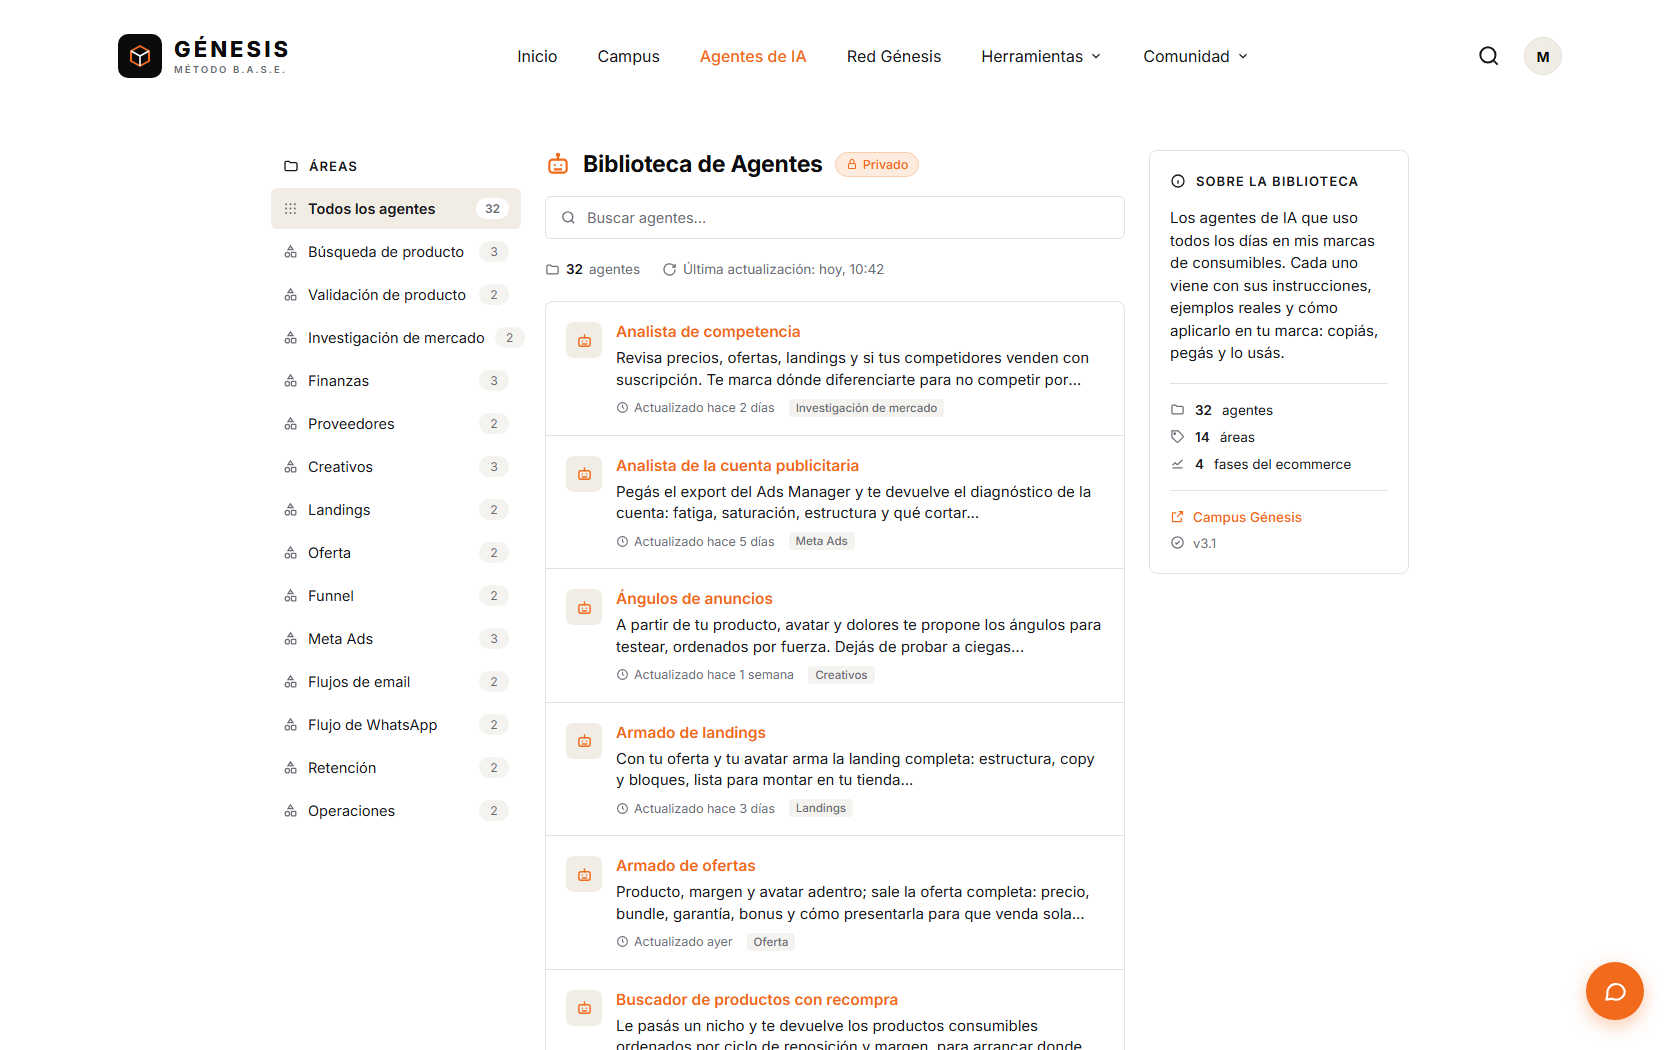
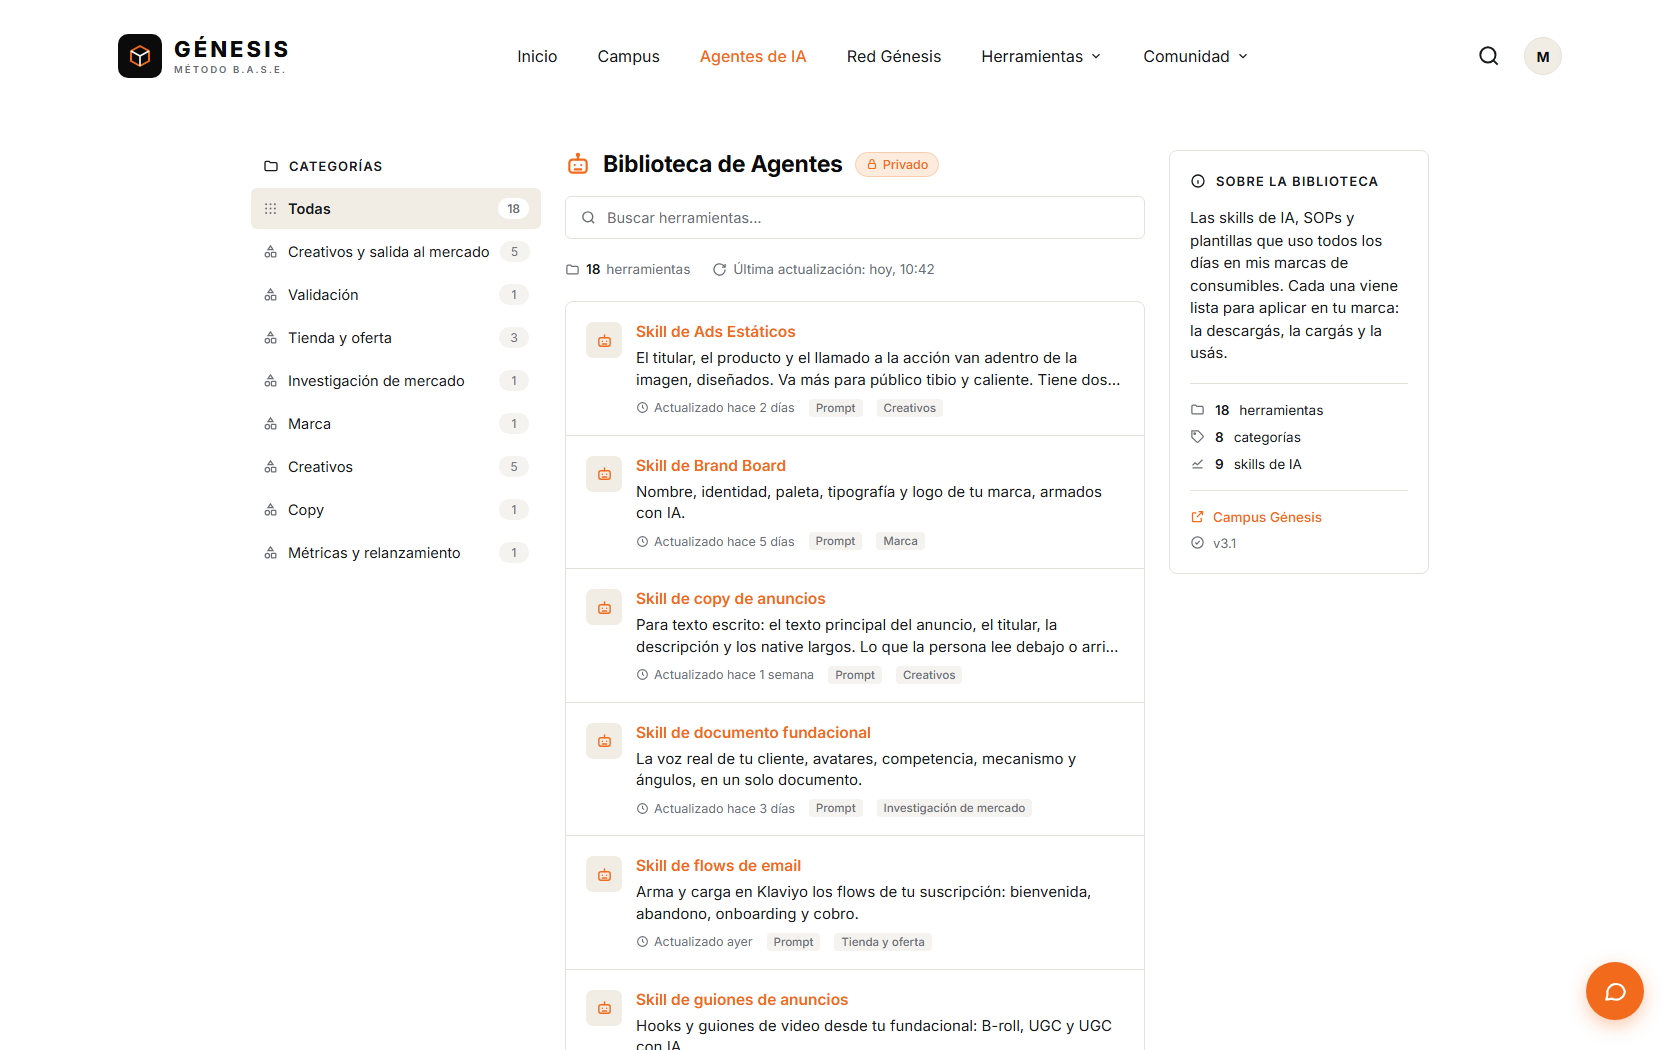
Biblioteca de agentes: las 18 herramientas reales del campus en lugar de los ejemplos

diff --git a/agentes/mi-negocio/webinar-17-11/biblioteca-agentes-ads.html b/agentes/mi-negocio/webinar-17-11/biblioteca-agentes-ads.html
@@ -36,7 +36,7 @@
   .avatar { width: 38px; height: 38px; border-radius: 50%; background: var(--hueso); border: 1px solid var(--borde); display: grid; place-items: center; font-weight: 700; font-size: 14px; color: var(--negro); }
 
   /* Layout */
-  main { display: grid; grid-template-columns: 250px 580px 260px; gap: 24px; justify-content: center; padding: 38px 0 80px; }
+  main { display: grid; grid-template-columns: 290px 580px 260px; gap: 24px; justify-content: center; padding: 38px 0 80px; }
 
   /* Sidebar */
   .side-titulo { display: flex; align-items: center; gap: 10px; font-size: 13px; font-weight: 600; letter-spacing: 0.08em; color: var(--tinta); padding: 8px 12px 14px; }
@@ -110,7 +110,7 @@
   <aside>
     <div class="side-titulo">
       <svg width="16" height="16" viewBox="0 0 24 24" fill="none" stroke="currentColor" stroke-width="2"><path d="M3 7a2 2 0 0 1 2-2h4l2 2h8a2 2 0 0 1 2 2v8a2 2 0 0 1-2 2H5a2 2 0 0 1-2-2V7Z"/></svg>
-      ÁREAS
+      CATEGORÍAS
     </div>
     <div id="cats"></div>
   </aside>
@@ -123,10 +123,10 @@
     </div>
     <div class="buscar">
       <svg width="17" height="17" viewBox="0 0 24 24" fill="none" stroke="currentColor" stroke-width="2"><circle cx="11" cy="11" r="7"/><path d="m20 20-4-4"/></svg>
-      Buscar agentes...
+      Buscar herramientas...
     </div>
     <div class="meta">
-      <span><svg width="15" height="15" viewBox="0 0 24 24" fill="none" stroke="currentColor" stroke-width="2"><path d="M3 7a2 2 0 0 1 2-2h4l2 2h8a2 2 0 0 1 2 2v8a2 2 0 0 1-2 2H5a2 2 0 0 1-2-2V7Z"/></svg><b id="total">32</b> agentes</span>
+      <span><svg width="15" height="15" viewBox="0 0 24 24" fill="none" stroke="currentColor" stroke-width="2"><path d="M3 7a2 2 0 0 1 2-2h4l2 2h8a2 2 0 0 1 2 2v8a2 2 0 0 1-2 2H5a2 2 0 0 1-2-2V7Z"/></svg><b id="total">18</b> herramientas</span>
       <span><svg width="15" height="15" viewBox="0 0 24 24" fill="none" stroke="currentColor" stroke-width="2"><path d="M21 12a9 9 0 1 1-3-6.7L21 8"/><path d="M21 3v5h-5"/></svg>Última actualización: hoy, 10:42</span>
     </div>
     <div class="lista" id="lista"></div>
@@ -138,11 +138,11 @@
         <svg width="16" height="16" viewBox="0 0 24 24" fill="none" stroke="currentColor" stroke-width="2"><circle cx="12" cy="12" r="9"/><path d="M12 11v5M12 8h.01"/></svg>
         SOBRE LA BIBLIOTECA
       </div>
-      <p>Los agentes de IA que uso todos los días en mis marcas de consumibles. Cada uno viene con sus instrucciones, ejemplos reales y cómo aplicarlo en tu marca: copiás, pegás y lo usás.</p>
+      <p>Las skills de IA, SOPs y plantillas que uso todos los días en mis marcas de consumibles. Cada una viene lista para aplicar en tu marca: la descargás, la cargás y la usás.</p>
       <hr>
-      <div class="stat"><svg width="15" height="15" viewBox="0 0 24 24" fill="none" stroke="currentColor" stroke-width="2"><path d="M3 7a2 2 0 0 1 2-2h4l2 2h8a2 2 0 0 1 2 2v8a2 2 0 0 1-2 2H5a2 2 0 0 1-2-2V7Z"/></svg><b>32</b> agentes</div>
-      <div class="stat"><svg width="15" height="15" viewBox="0 0 24 24" fill="none" stroke="currentColor" stroke-width="2"><path d="M20.6 13.4 13.4 20.6a2 2 0 0 1-2.8 0L3 13V3h10l7.6 7.6a2 2 0 0 1 0 2.8Z"/><circle cx="7.5" cy="7.5" r="1.2"/></svg><b>14</b> áreas</div>
-      <div class="stat"><svg width="15" height="15" viewBox="0 0 24 24" fill="none" stroke="currentColor" stroke-width="2"><path d="M4 19h16M4 15l4-4 4 3 8-8"/></svg><b>4</b> fases del ecommerce</div>
+      <div class="stat"><svg width="15" height="15" viewBox="0 0 24 24" fill="none" stroke="currentColor" stroke-width="2"><path d="M3 7a2 2 0 0 1 2-2h4l2 2h8a2 2 0 0 1 2 2v8a2 2 0 0 1-2 2H5a2 2 0 0 1-2-2V7Z"/></svg><b id="n-total">18</b> herramientas</div>
+      <div class="stat"><svg width="15" height="15" viewBox="0 0 24 24" fill="none" stroke="currentColor" stroke-width="2"><path d="M20.6 13.4 13.4 20.6a2 2 0 0 1-2.8 0L3 13V3h10l7.6 7.6a2 2 0 0 1 0 2.8Z"/><circle cx="7.5" cy="7.5" r="1.2"/></svg><b id="n-areas">8</b> categorías</div>
+      <div class="stat"><svg width="15" height="15" viewBox="0 0 24 24" fill="none" stroke="currentColor" stroke-width="2"><path d="M4 19h16M4 15l4-4 4 3 8-8"/></svg><b id="n-skills">11</b> skills de IA</div>
       <hr>
       <a class="link"><svg width="15" height="15" viewBox="0 0 24 24" fill="none" stroke="currentColor" stroke-width="2"><path d="M14 4h6v6M20 4l-9 9M18 14v5a1 1 0 0 1-1 1H5a1 1 0 0 1-1-1V7a1 1 0 0 1 1-1h5"/></svg>Campus Génesis</a>
       <div class="ver"><svg width="15" height="15" viewBox="0 0 24 24" fill="none" stroke="currentColor" stroke-width="2"><circle cx="12" cy="12" r="9"/><path d="m8.5 12 2.5 2.5 4.5-5"/></svg>v3.1</div>
@@ -156,40 +156,26 @@
 
 <script>
 const AGENTES = [
-  ["Búsqueda de producto", "Buscador de productos con recompra", "Le pasás un nicho y te devuelve los productos consumibles ordenados por ciclo de reposición y margen, para arrancar donde el cliente vuelve a comprar..."],
-  ["Búsqueda de producto", "Lector de la Biblioteca de Anuncios", "Analiza la competencia de tu categoría y te dice qué productos, ángulos y formatos llevan más tiempo activos. Lo que está funcionando, sin adivinar..."],
-  ["Búsqueda de producto", "Minero de reseñas", "Lee reseñas tuyas y de la competencia y saca dolores, deseos, objeciones y las frases textuales del cliente para usar en tus anuncios..."],
-  ["Validación de producto", "Validador de demanda", "Le das una idea de producto y cruza búsquedas, competencia y anuncios activos. Te devuelve un veredicto claro: avanzar, ajustar o descartar..."],
-  ["Validación de producto", "Plan de test de producto", "Arma el test con días, presupuesto y métricas de corte (CTR, CPA máximo) para decidir rápido si el producto sigue o se mata..."],
-  ["Investigación de mercado", "Investigación de avatar", "Procesa encuestas, DMs y entrevistas y te devuelve el avatar, su nivel de consciencia y el mapa de dolores. La base de todo tu copy..."],
-  ["Investigación de mercado", "Analista de competencia", "Revisa precios, ofertas, landings y si tus competidores venden con suscripción. Te marca dónde diferenciarte para no competir por precio..."],
-  ["Finanzas", "Calculadora de costeo y precio", "Mete costo, envío, comisiones, pauta e impuestos y te devuelve precio mínimo, precio recomendado y el margen de contribución real por pedido..."],
-  ["Finanzas", "Rentabilidad por SKU", "Cruza ventas y costos por producto y te dice cuáles dejan plata, cuáles la pierden y cuáles conviene cortar del catálogo..."],
-  ["Finanzas", "Proyección de caja", "Proyecta cobros, ventas y costos mes a mes para que veas la caja con anticipación y sepas tu piso de facturación..."],
-  ["Proveedores", "Buscador de proveedores", "Para cada producto te dice qué tipo de proveedor buscar, dónde encontrarlo y qué preguntarle antes de cerrar el primer pedido..."],
-  ["Proveedores", "Negociador con proveedores", "Toma una cotización y te arma la contrapropuesta de precio, mínimos y plazos de pago para mejorar el margen desde la compra..."],
-  ["Creativos", "Ángulos de anuncios", "A partir de tu producto, avatar y dolores te propone los ángulos para testear, ordenados por fuerza. Dejás de probar a ciegas..."],
-  ["Creativos", "Guiones de creativos", "Convierte el ángulo elegido en guiones de video listos para grabar (UGC, talking head, demo) con hook y variantes para testear..."],
-  ["Creativos", "Iterador de ganadores", "Le pasás un anuncio que funciona y te devuelve 10 variaciones de hook, formato, actor y oferta para estirar el ganador sin fatigarlo..."],
-  ["Landings", "Armado de landings", "Con tu oferta y tu avatar arma la landing completa: estructura, copy y bloques, lista para montar en tu tienda..."],
-  ["Landings", "Landing de suscripción", "Arma la landing o el bloque de suscripción listo para Tiendanube, al lado de la compra única y sin tocar lo que ya vende..."],
-  ["Oferta", "Armado de ofertas", "Producto, margen y avatar adentro; sale la oferta completa: precio, bundle, garantía, bonus y cómo presentarla para que venda sola..."],
-  ["Oferta", "Oferta de suscripción", "Define precio, descuento, frecuencia y beneficios de la suscripción según tu margen y tu ciclo de reposición real..."],
-  ["Funnel", "Estrategia de lanzamiento", "Arma el plan de lanzamiento día por día: preventa, orgánico, pauta e influencers, según tu producto y tu presupuesto..."],
-  ["Funnel", "Upsell y cross-sell", "Lee tu catálogo y te arma ofertas para el carrito y para después de la compra, con su copy, para subir el ticket promedio..."],
-  ["Meta Ads", "Analista de la cuenta publicitaria", "Pegás el export del Ads Manager y te devuelve el diagnóstico de la cuenta: fatiga, saturación, estructura y qué cortar..."],
-  ["Meta Ads", "Escalado de campañas", "Mira las métricas de tus campañas y te dice cuándo y cuánto subir presupuesto, duplicar o abrir públicos sin romper el CPA..."],
-  ["Meta Ads", "Estructura de campañas al CPA nuevo", "Recalcula campañas, conjuntos y presupuestos con tu LTV para pautar al techo nuevo que te da la suscripción..."],
-  ["Flujos de email", "Carrito abandonado", "Escribe la secuencia de email y WhatsApp para recuperar carritos abandonados, con los tiempos y el incentivo justo..."],
-  ["Flujos de email", "Flujos post-compra", "Arma la secuencia después de la compra: uso, resultados y próxima compra, para que el cliente vuelva sin que pagues pauta de nuevo..."],
-  ["Flujo de WhatsApp", "Flujos de migración por WhatsApp", "Con tu oferta y tus segmentos escribe la secuencia para pasar a los que ya te compraron a suscriptores. Cientos desde la base actual..."],
-  ["Flujo de WhatsApp", "Vendedor por WhatsApp", "Toma las consultas típicas de tus clientes y arma el flujo de respuestas que contesta, recomienda y cierra la venta por chat..."],
-  ["Retención", "Retención y recuperación de bajas", "Según los motivos de baja te arma ofertas de pausa o cambio de frecuencia y la secuencia para recuperar al suscriptor..."],
-  ["Retención", "Cobros fallidos", "Escribe la secuencia para recuperar tarjetas rechazadas y cobros vencidos antes de que el suscriptor se pierda..."],
-  ["Operaciones", "Generador de SOPs", "Le contás cómo hacés hoy una tarea y te la devuelve como SOP escrito, para que la haga alguien de tu equipo..."],
-  ["Operaciones", "Qué delegar primero", "Revisa tus tareas de la semana y te dice qué delegar, a quién y en qué orden, para que salgas de la operación..."],
+  ["Creativos y salida al mercado", "Skill de guiones de anuncios", "Hooks y guiones de video desde tu fundacional: B-roll, UGC y UGC con IA.", "Prompt"],
+  ["Validación", "Skill de validación", "Pasá tu producto por los filtros y salí con un GO o un NO-GO antes de testearlo.", "Prompt"],
+  ["Tienda y oferta", "Skill de flows de email", "Arma y carga en Klaviyo los flows de tu suscripción: bienvenida, abandono, onboarding y cobro.", "Prompt"],
+  ["Investigación de mercado", "Skill de documento fundacional", "La voz real de tu cliente, avatares, competencia, mecanismo y ángulos, en un solo documento.", "Prompt"],
+  ["Tienda y oferta", "SOP de flows de email", "Qué flows prender, en qué orden y qué dice cada email de tu suscripción.", "Recurso"],
+  ["Marca", "Skill de Brand Board", "Nombre, identidad, paleta, tipografía y logo de tu marca, armados con IA.", "Prompt"],
+  ["Creativos y salida al mercado", "Skill de videos con IA", "Convierte tu guion aprobado en clips de video con IA, frame por frame, listos para editar.", "Prompt"],
+  ["Creativos", "Skill de copy de anuncios", "Para texto escrito: el texto principal del anuncio, el titular, la descripción y los native largos. Lo que la persona lee debajo o arriba de la imagen o del video.", "Prompt"],
+  ["Creativos y salida al mercado", "Skill de Native Ads", "Anuncios que parecen contenido orgánico: ángulos, imágenes y copy desde tu fundacional.", "Prompt"],
+  ["Creativos y salida al mercado", "SOP de nomenclatura de anuncios", "Cómo nombrar campañas, conjuntos y anuncios para que tu tracker se lea solo.", "Recurso"],
+  ["Creativos", "Skill de Ads Estáticos", "El titular, el producto y el llamado a la acción van adentro de la imagen, diseñados. Va más para público tibio y caliente. Tiene dos rutas: banco de formatos o modo réplica.", "Prompt"],
+  ["Copy", "Documento de principios de copy", "Base de conocimiento para las skills de Génesis.", "Recurso"],
+  ["Tienda y oferta", "Simulador de suscripción", "Cuánto te deja cada venta, cuánto podés pagar por cliente y cuánto ganás con suscripción.", "Software"],
+  ["Creativos y salida al mercado", "SOP de anuncio rechazado en Meta", "Qué hacer cuando Meta te rechaza un anuncio: por qué pasa, cómo apelar y cómo corregirlo.", "Recurso"],
+  ["Creativos", "Plantilla +500 ads estáticos en Figma", "Usá las plantillas de ads para sacar renovaciones rápidas y efectivas para tu marca o producto.", "Plantilla"],
+  ["Creativos", "Plantilla +150 ads estáticos en Canva", "Usá las plantillas de ads para sacar renovaciones rápidas y efectivas para tu marca o producto.", "Plantilla"],
+  ["Métricas y relanzamiento", "Tracker de anuncios", "Tus anuncios con veredicto de ganador o perdedor y tu hit rate, actualizados todos los días.", "Plantilla"],
+  ["Creativos", "Plantilla +90 ads estáticos en Canva", "Usá las plantillas de ads para sacar renovaciones rápidas y efectivas para tu marca o producto.", "Plantilla"],
 ];
-const AREAS = ["Búsqueda de producto","Validación de producto","Investigación de mercado","Finanzas","Proveedores","Creativos","Landings","Oferta","Funnel","Meta Ads","Flujos de email","Flujo de WhatsApp","Retención","Operaciones"];
+const AREAS = [...new Set(AGENTES.map(a => a[0]))];
 const HACE = ["hace 2 días","hace 5 días","hace 1 semana","hace 3 días","ayer","hace 4 días","hace 2 semanas","hace 6 días"];
 
 const icoArch = '<svg width="17" height="17" viewBox="0 0 24 24" fill="none" stroke="currentColor" stroke-width="2" stroke-linecap="round" stroke-linejoin="round"><rect x="4" y="8" width="16" height="12" rx="3"/><path d="M12 8V4M9 13h.01M15 13h.01M9 17h6"/></svg>';
@@ -197,7 +183,8 @@ const icoReloj = '<svg width="13" height="13" viewBox="0 0 24 24" fill="none" st
 const icoGrid = '<svg width="15" height="15" viewBox="0 0 24 24" fill="currentColor"><circle cx="5" cy="5" r="1.6"/><circle cx="12" cy="5" r="1.6"/><circle cx="19" cy="5" r="1.6"/><circle cx="5" cy="12" r="1.6"/><circle cx="12" cy="12" r="1.6"/><circle cx="19" cy="12" r="1.6"/><circle cx="5" cy="19" r="1.6"/><circle cx="12" cy="19" r="1.6"/><circle cx="19" cy="19" r="1.6"/></svg>';
 const icoCat = '<svg width="15" height="15" viewBox="0 0 24 24" fill="none" stroke="currentColor" stroke-width="2"><path d="M12 3 8 9h8l-4-6Z"/><circle cx="7" cy="17" r="3.5"/><rect x="13.5" y="13.5" width="7" height="7" rx="1"/></svg>';
 
-const orden = [...AGENTES].sort((a, b) => a[1].localeCompare(b[1], 'es'));
+const TIPOS = ["Prompt", "Software", "Recurso", "Plantilla"];
+const orden = [...AGENTES].sort((a, b) => TIPOS.indexOf(a[3]) - TIPOS.indexOf(b[3]) || a[1].localeCompare(b[1], 'es'));
 let filtro = null;
 
 function render() {
@@ -209,15 +196,18 @@ function render() {
       <div>
         <h3>${a[1]}</h3>
         <p>${a[2]}</p>
-        <div class="info"><span>${icoReloj}Actualizado ${HACE[i % HACE.length]}</span><span class="tag">${a[0]}</span></div>
+        <div class="info"><span>${icoReloj}Actualizado ${HACE[i % HACE.length]}</span><span class="tag">${a[3]}</span><span class="tag">${a[0]}</span></div>
       </div>
     </div>`).join('');
-  const cats = [[null, 'Todos los agentes', AGENTES.length, icoGrid], ...AREAS.map(x => [x, x, AGENTES.filter(a => a[0] === x).length, icoCat])];
+  const cats = [[null, 'Todas', AGENTES.length, icoGrid], ...AREAS.map(x => [x, x, AGENTES.filter(a => a[0] === x).length, icoCat])];
   document.getElementById('cats').innerHTML = cats.map(([k, nombre, n, ico]) =>
     `<div class="cat${k === filtro ? ' activo' : ''}" data-k="${k ?? ''}">${ico}${nombre}<span class="n">${n}</span></div>`).join('');
   document.querySelectorAll('.cat').forEach(el => el.onclick = () => { filtro = el.dataset.k || null; render(); });
 }
 render();
+document.getElementById('n-total').textContent = AGENTES.length;
+document.getElementById('n-areas').textContent = AREAS.length;
+document.getElementById('n-skills').textContent = AGENTES.filter(a => a[3] === 'Prompt').length;
 </script>
 </body>
 </html>
